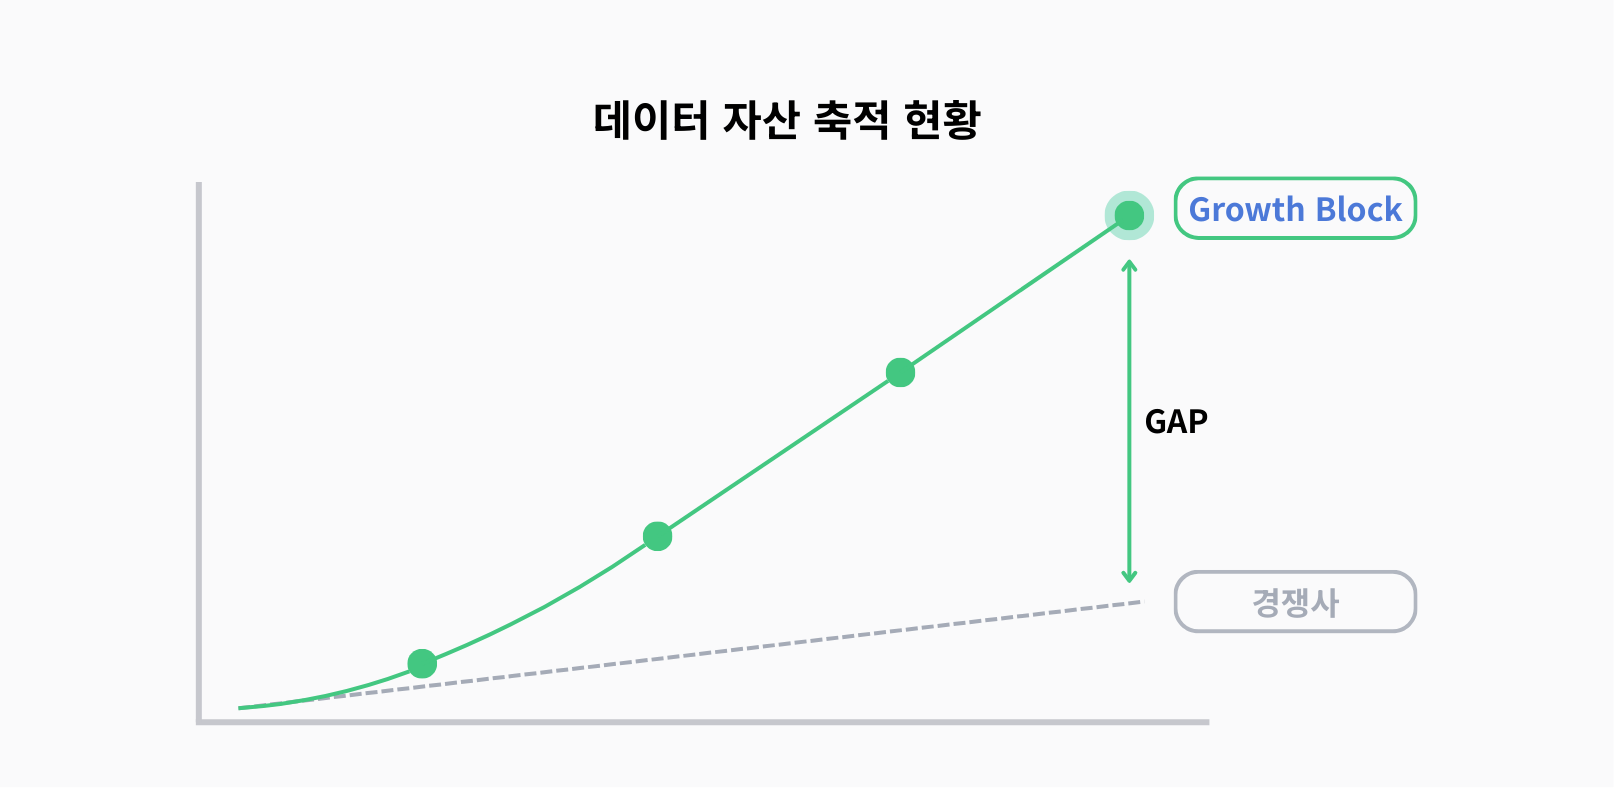
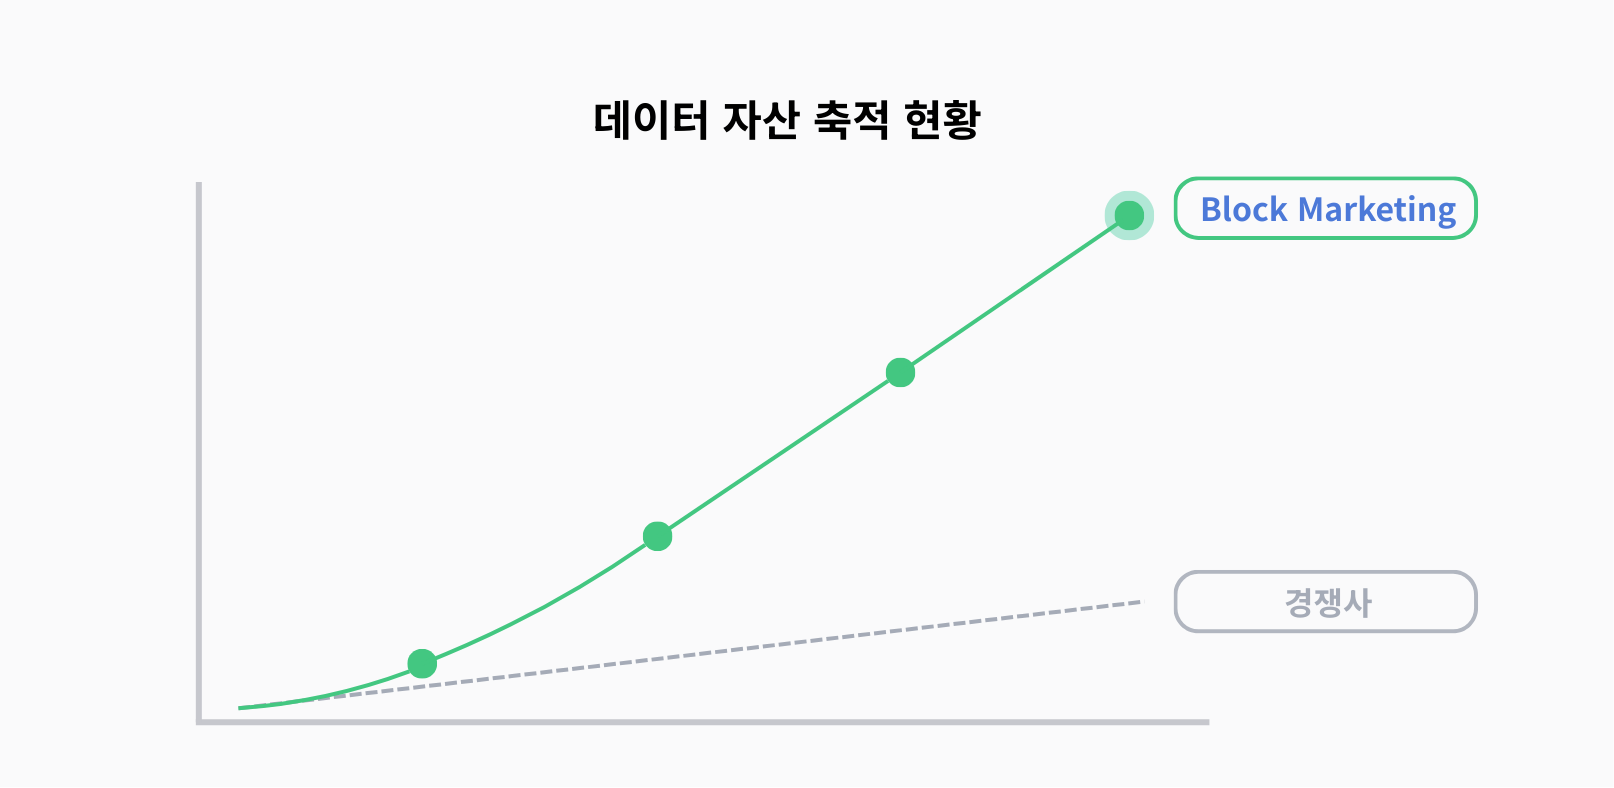
refactor: rename project from Growth Block to Block Marketing

diff --git a/components/landing/constants.ts b/components/landing/constants.ts
@@ -13,22 +13,22 @@ export const COMPARISON_SETS: ComparisonSet[] = [
       {
         category: "전략 수립",
         legacy: "업계 공통의 범용 매뉴얼 기반 실행",
-        growthBlock: "귀사 비즈니스 모델에 최적화된 맞춤 전략"
+        blockMarketing: "귀사 비즈니스 모델에 최적화된 맞춤 전략"
       },
       {
         category: "데이터 분석",
         legacy: "광고 매체의 성과 수치에 집중",
-        growthBlock: "실질적 영업이익과 고객 가치 중심의 분석"
+        blockMarketing: "실질적 영업이익과 고객 가치 중심의 분석"
       },
       {
         category: "비용 성격",
         legacy: "성과 확인 후 사라지는 소모성 광고비",
-        growthBlock: "비즈니스 가치를 높이는 자본적 투자"
+        blockMarketing: "비즈니스 가치를 높이는 자본적 투자"
       },
       {
         category: "최종 결과",
         legacy: "일회성 매출 상승과 운영 리포트",
-        growthBlock: "지속 가능한 성장을 위한 데이터 자산화"
+        blockMarketing: "지속 가능한 성장을 위한 데이터 자산화"
       },
     ],
   },
@@ -44,22 +44,22 @@ export const COMPARISON_SETS: ComparisonSet[] = [
       {
         category: "도메인 지식",
         legacy: "자사 경험에 국한된 시각",
-        growthBlock: "해당 산업군 성공 데이터를 통한 전문 인사이트",
+        blockMarketing: "해당 산업군 성공 데이터를 통한 전문 인사이트",
       },
       {
         category: "성장 속도",
         legacy: "시행착오를 거치며 느리게 학습",
-        growthBlock: "이미 검증된 가설을 바탕으로 즉각적인 성과",
+        blockMarketing: "이미 검증된 가설을 바탕으로 즉각적인 성과",
       },
       {
         category: "운영 기반",
         legacy: "담당자 개인의 역량과 주관에 의존",
-        growthBlock: "객관적 지표에 근거한 정밀한 최적화 시스템",
+        blockMarketing: "객관적 지표에 근거한 정밀한 최적화 시스템",
       },
       {
         category: "지속 가능성",
         legacy: "퇴사 시 데이터 및 히스토리 단절 리스크",
-        growthBlock: "인적 의존 없는 영구적인 운영 프로세스 구축",
+        blockMarketing: "인적 의존 없는 영구적인 운영 프로세스 구축",
       },
     ],
   },

diff --git a/app/layout.tsx b/app/layout.tsx
@@ -19,8 +19,8 @@ const SITE_URL =
 export const metadata: Metadata = {
   metadataBase: new URL(SITE_URL),
   title: {
-    default: "Growth Block | 수익 구조 설계부터 운영까지",
-    template: "%s | Growth Block",
+    default: "Block Marketing | 수익 구조 설계부터 운영까지",
+    template: "%s | Block Marketing",
   },
   description:
     "단순 광고 집행을 넘어 비즈니스 맞춤형 성장 시스템을 구축합니다. 도메인 분석으로 누수 지점을 판독하고, 전략과 실행을 동시에 책임지는 파트너 CMO 팀의 1:1 맞춤 컨설팅을 경험하세요.",
@@ -30,7 +30,7 @@ export const metadata: Metadata = {
     "마케팅 컨설팅",
     "퍼포먼스 마케팅",
     "성장 전략",
-    "Growth Block",
+    "Block Marketing",
     "수익 구조 설계",
     "LTV 최적화",
     "마케팅 대행사",
@@ -54,8 +54,8 @@ export const metadata: Metadata = {
     type: "website",
     locale: "ko_KR",
     url: SITE_URL,
-    siteName: "Growth Block",
-    title: "Growth Block | 수익 구조 설계부터 운영까지",
+    siteName: "Block Marketing",
+    title: "Block Marketing | 수익 구조 설계부터 운영까지",
     description:
       "단순 광고 집행을 넘어 비즈니스 맞춤형 성장 시스템을 구축합니다. 파트너 CMO 팀의 1:1 맞춤 컨설팅을 경험하세요.",
     images: [
@@ -63,13 +63,13 @@ export const metadata: Metadata = {
         url: "/og-image.png",
         width: 1200,
         height: 630,
-        alt: "Growth Block - 수익 구조 설계부터 운영까지",
+        alt: "Block Marketing - 수익 구조 설계부터 운영까지",
       },
     ],
   },
   twitter: {
     card: "summary_large_image",
-    title: "Growth Block | 수익 구조 설계부터 운영까지",
+    title: "Block Marketing | 수익 구조 설계부터 운영까지",
     description:
       "단순 광고 집행을 넘어 비즈니스 맞춤형 성장 시스템을 구축합니다. 파트너 CMO 팀의 1:1 맞춤 컨설팅을 경험하세요.",
     images: ["/og-image.png"],

diff --git a/app/solutions/layout.tsx b/app/solutions/layout.tsx
@@ -4,25 +4,25 @@ import type { ReactNode } from "react";
 export const metadata: Metadata = {
   title: "성장 전략",
   description:
-    "Growth Block의 4가지 핵심 전략 솔루션. 데이터 기반 의사결정, 수익 최적화, 통합 운영 관리, 전략 자산화 시스템으로 마케팅의 모든 과정을 귀사의 자산으로 전환합니다.",
+    "Block Marketing의 4가지 핵심 전략 솔루션. 데이터 기반 의사결정, 수익 최적화, 통합 운영 관리, 전략 자산화 시스템으로 마케팅의 모든 과정을 귀사의 자산으로 전환합니다.",
   openGraph: {
-    title: "Growth Block 성장 전략 | 마케팅을 성장 자산으로 전환",
+    title: "Block Marketing 성장 전략 | 마케팅을 성장 자산으로 전환",
     description:
-      "데이터 기반 의사결정, 수익 최적화, 통합 운영 관리, 전략 자산화. Growth Block의 4가지 핵심 전략으로 마케팅 비용을 성장 자본으로 전환하세요.",
+      "데이터 기반 의사결정, 수익 최적화, 통합 운영 관리, 전략 자산화. Block Marketing의 4가지 핵심 전략으로 마케팅 비용을 성장 자본으로 전환하세요.",
     url: "/solutions",
     images: [
       {
         url: "/og-image.png",
         width: 1200,
         height: 630,
-        alt: "Growth Block 성장 전략",
+        alt: "Block Marketing 성장 전략",
       },
     ],
   },
   twitter: {
-    title: "Growth Block 성장 전략 | 마케팅을 성장 자산으로 전환",
+    title: "Block Marketing성장 전략 | 마케팅을 성장 자산으로 전환",
     description:
-      "데이터 기반 의사결정, 수익 최적화, 통합 운영 관리, 전략 자산화. Growth Block의 4가지 핵심 전략.",
+      "데이터 기반 의사결정, 수익 최적화, 통합 운영 관리, 전략 자산화. Block Marketing의 4가지 핵심 전략.",
     images: ["/og-image.png"],
   },
   alternates: {

diff --git a/components/landing/why-us-section.tsx b/components/landing/why-us-section.tsx
@@ -3,7 +3,7 @@
 import { ScrollIndicator } from "../common";
 import { Tabs, TabsList, TabsTrigger, TabsContent } from "../ui/tabs";
 import { COMPARISON_SETS } from "./constants";
-import { LegacyCard, GrowthBlockCard } from "./why-us";
+import { LegacyCard, BlockMarketingCard } from "./why-us";
 import type { ComparisonSet } from "./types";
 
 function SectionHeader({ set }: { set: ComparisonSet; }) {
@@ -14,7 +14,7 @@ function SectionHeader({ set }: { set: ComparisonSet; }) {
         <br className="sm:hidden" />
         vs{" "}
         <br className="sm:hidden" />
-        <span className="text-primary">Growth Block</span>
+        <span className="text-primary">Block Marketing</span>
       </h2>
       <p className="text-muted-foreground text-lg [word-break:keep-all]">
         {set.subCopy}
@@ -31,7 +31,7 @@ function ComparisonCards({ set }: { set: ComparisonSet; }) {
         title={set.legacyTitle}
         subtitle={set.legacySubtitle}
       />
-      <GrowthBlockCard comparisons={set.comparisons} />
+      <BlockMarketingCard comparisons={set.comparisons} />
     </div>
   );
 }
@@ -41,7 +41,7 @@ function ServiceNote() {
     <div className="mt-16">
       <div className="bg-primary/5 border border-primary/20 rounded-2xl p-6 text-center">
         <p className="text-foreground font-medium text-lg [word-break:keep-all]">
-          Growth Block은 단순 대행을 넘어,{" "}
+          Block Marketing은 단순 대행을 넘어,{" "}
           <span className="text-primary">
             귀사의 성장 시스템을 함께 구축하는 프리미엄 파트너십 서비스
           </span>

diff --git a/components/landing/why-us/block-marketing-card.tsx b/components/landing/why-us/block-marketing-card.tsx
@@ -4,11 +4,11 @@ import { Check } from "lucide-react";
 
 import type { Comparison } from "../types";
 
-interface GrowthBlockCardProps {
+interface BlockMarketingCardProps {
   comparisons: Comparison[];
 }
 
-export function GrowthBlockCard({ comparisons }: GrowthBlockCardProps) {
+export function BlockMarketingCard({ comparisons }: BlockMarketingCardProps) {
   return (
     <div className="relative bg-gradient-to-br from-white to-primary/5 rounded-3xl border-2 border-primary/30 p-6 lg:p-8 shadow-xl shadow-primary/10">
       <div className="absolute inset-0 bg-gradient-to-br from-primary/5 via-transparent to-accent/5 rounded-3xl" />
@@ -18,7 +18,7 @@ export function GrowthBlockCard({ comparisons }: GrowthBlockCardProps) {
           <Check className="w-6 h-6 text-primary-foreground" />
         </div>
         <div>
-          <h3 className="text-xl font-bold text-foreground">Growth Block</h3>
+          <h3 className="text-xl font-bold text-foreground">Block Marketing</h3>
           <p className="text-sm text-primary">Your Growth Partner</p>
         </div>
       </div>
@@ -36,7 +36,7 @@ export function GrowthBlockCard({ comparisons }: GrowthBlockCardProps) {
               <p className="text-xs font-medium text-primary mb-1 flex items-center gap-1.5">
                 {item.category}
               </p>
-              <p className="text-foreground font-medium [word-break:keep-all]">{item.growthBlock}</p>
+              <p className="text-foreground font-medium [word-break:keep-all]">{item.blockMarketing}</p>
             </div>
           </div>
         ))}

diff --git a/components/seo/json-ld.tsx b/components/seo/json-ld.tsx
@@ -5,7 +5,7 @@ export function OrganizationJsonLd() {
   const organizationSchema = {
     "@context": "https://schema.org",
     "@type": "Organization",
-    name: "Growth Block",
+    name: "Block Marketing",
     legalName: "주식회사 하이퍼바삭",
     url: SITE_URL,
     logo: `${SITE_URL}/logo.png`,
@@ -29,10 +29,10 @@ export function OrganizationJsonLd() {
   const serviceSchema = {
     "@context": "https://schema.org",
     "@type": "ProfessionalService",
-    name: "Growth Block 마케팅 컨설팅",
+    name: "Block Marketing 마케팅 컨설팅",
     provider: {
       "@type": "Organization",
-      name: "Growth Block",
+      name: "Block Marketing",
     },
     description:
       "수익 구조 설계부터 운영까지, 비즈니스 맞춤형 성장 시스템 구축. 데이터 기반 의사결정, 수익 최적화, 통합 운영 관리, 전략 자산화 시스템.",
@@ -53,12 +53,12 @@ export function OrganizationJsonLd() {
   const webSiteSchema = {
     "@context": "https://schema.org",
     "@type": "WebSite",
-    name: "Growth Block",
+    name: "Block Marketing",
     url: SITE_URL,
     inLanguage: "ko",
     publisher: {
       "@type": "Organization",
-      name: "Growth Block",
+      name: "Block Marketing",
     },
   };
 

diff --git a/components/landing/hero-section.tsx b/components/landing/hero-section.tsx
@@ -41,7 +41,7 @@ function HeroHeadline() {
       가 합류합니다.
       <br className="block" />
       <span className="relative inline-block text-primary">
-        Growth Block
+        Block Marketing
         <svg
           className="absolute -bottom-1 left-0 w-full"
           viewBox="0 0 200 8"
@@ -69,7 +69,7 @@ function HeroSubheadline() {
   return (
     <p className="text-lg text-muted-foreground leading-[1.4] [word-break:keep-all]">
       <span>
-        Growth Block 하나로 스케일업에 필요한 모든 전략과 실행을 끝내세요.{" "}
+        Block Marketing 하나로 스케일업에 필요한 모든 전략과 실행을 끝내세요.{" "}
         <br className="hidden sm:block" />
         수익 구조를 직접 설계하고 운영하는 CMO 팀이, 귀사만의 독보적인 성장 시스템을 완성합니다.
       </span>

diff --git a/components/common/start-now-section.tsx b/components/common/start-now-section.tsx
@@ -39,7 +39,7 @@ function SectionHeader() {
       </h2>
       <p className="text-lg text-muted-foreground leading-relaxed [word-break:keep-all]">
         귀사 비즈니스 산업군에 특화된 표준 지표와 추정되는 수익 누수 지점을 판독합니다.
-        Growth Block의 전략적 가설이 담긴 <strong className="text-foreground">진단 리포트</strong>를 무료로 제공합니다.
+        Block Marketing의 전략적 가설이 담긴 <strong className="text-foreground">진단 리포트</strong>를 무료로 제공합니다.
       </p>
     </div>
   );

diff --git a/components/landing/block-service-section.tsx b/components/landing/block-service-section.tsx
@@ -77,7 +77,7 @@ function SectionHeader() {
         <span className="text-primary">마케팅 블록</span>으로 최적의 성장 지름길을 개척합니다.
       </h2>
       <p className="text-slate-600 text-lg leading-relaxed [word-break:keep-all]">
-        Growth Block은 이탈의 빈틈을 메우는 것을 넘어, 유저 여정을 가장 효율적인 경로로 재설계합니다.
+        Block Marketing은 이탈의 빈틈을 메우는 것을 넘어, 유저 여정을 가장 효율적인 경로로 재설계합니다.
       </p>
     </div>
   );

diff --git a/components/solutions/hero-section.tsx b/components/solutions/hero-section.tsx
@@ -69,7 +69,7 @@ export function HeroSection() {
         {/* Key message */}
         <div className="inline-block">
           <p className="text-xl sm:text-2xl lg:text-3xl font-bold text-white [word-break:keep-all] leading-relaxed">
-            Growth Block의 4가지 핵심 전략은{" "}
+            Block Marketing의 4가지 핵심 전략은{" "}
             <br className="hidden sm:block" />
             마케팅의 모든 과정을 귀사의{" "}
             <span className="relative inline-block text-[#A2E3FF]">

diff --git a/components/common/ui/logo.tsx b/components/common/ui/logo.tsx
@@ -32,10 +32,10 @@ export function Logo({
       onClick={handleClick}
       className={`flex items-center gap-2 ${className}`}
     >
-      <Image src="/logo.png" alt="Growth Block" width={32} height={32} />
+      <Image src="/logo.png" alt="Block Marketing" width={32} height={32} />
       {showText && (
         <span className={`font-semibold text-lg ${textClassName}`}>
-          Growth Block
+          Block Marketing
         </span>
       )}
     </Link>

diff --git a/components/landing/why-us/index.ts b/components/landing/why-us/index.ts
@@ -1,2 +1,2 @@
 export { LegacyCard } from "./legacy-card";
-export { GrowthBlockCard } from "./growth-block-card";
+export { BlockMarketingCard } from "./block-marketing-card";
